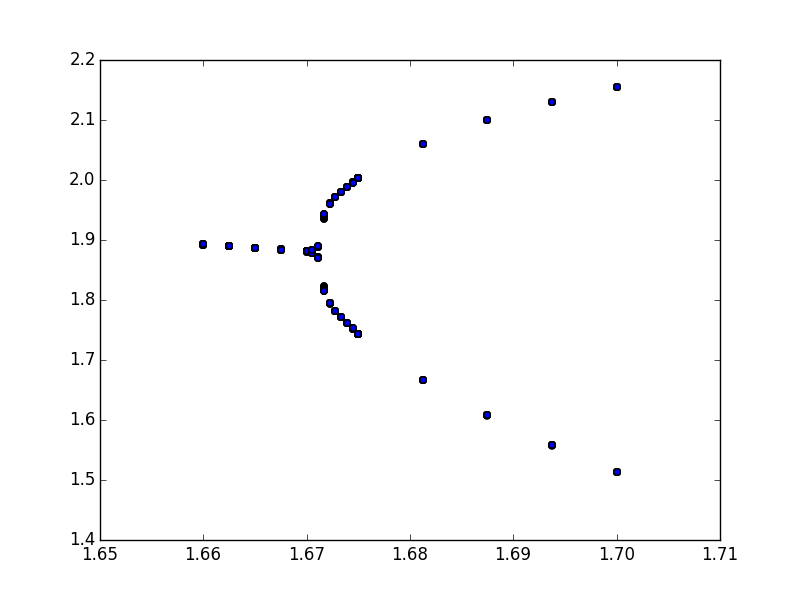
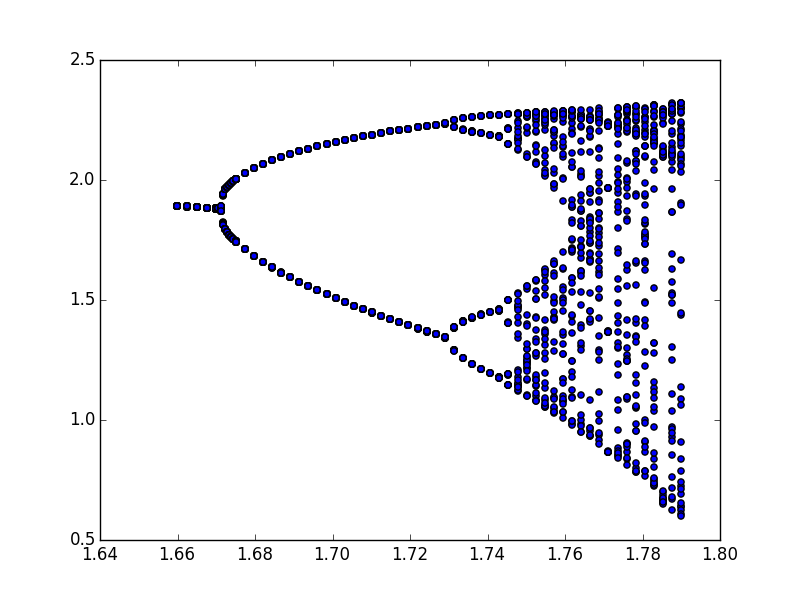
w hasta 1.79

diff --git a/02tarea.py b/02tarea.py
@@ -137,7 +137,7 @@ for w in linspace(1.67,1.675,10):
     w_values=np.ones(len(vn_values))*w
     plt.scatter(w_values,vn_values)
 #fin valores interesantes
-for w in linspace(1.675,1.7,5):
+for w in linspace(1.675,1.79,50):
     n=250
     (tn,yn,vn)=llenar_choques(t0_w,y0_w,v0_w,n)
     vn_values=vn[200:]
